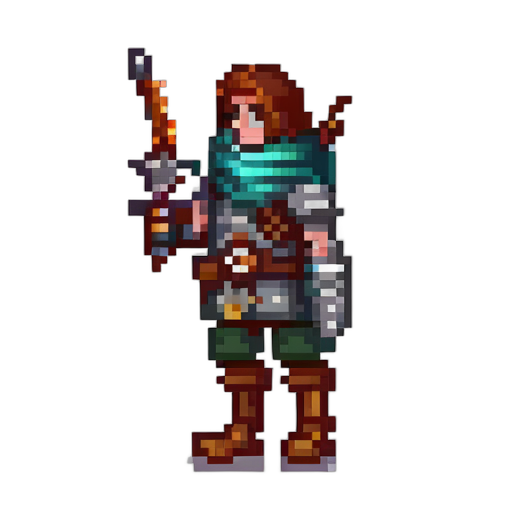
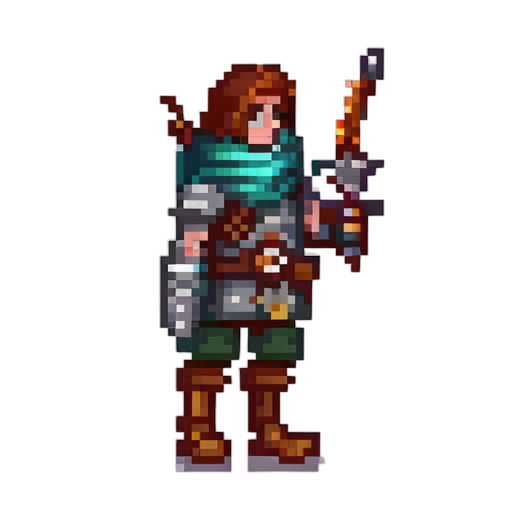
changed layout a bit

Changed region(s): [[0.25, 0.0938, 0.75, 0.9375]]

diff --git a/src/routes/game/quest/+page.svelte b/src/routes/game/quest/+page.svelte
@@ -11,7 +11,8 @@
 		getPlayerUnit,
 		getQuestById,
 		getQuestToLoad,
-		setBackground
+		setBackground,
+		setCrewOrder
 	} from '$lib/states/game-state.svelte';
 	import Sortable from 'sortablejs';
 	import { onDestroy, onMount } from 'svelte';
@@ -23,6 +24,9 @@
 	import QuestInfo from './quest-info.svelte';
 	import TotalBox from './total-box.svelte';
 	import UnitBody from '$lib/components/game/unit-body/unit-body.svelte';
+	import UnitSkillDragPanel from './unit-skill-drag-panel.svelte';
+	import Text from '$lib/components/ui/text/text.svelte';
+	import SkillInstanceCard from '$lib/components/game/skill-instance-card/skill-instance-card.svelte';
 
 	// Set Background
 	setBackground('chevrons');
@@ -57,13 +61,13 @@
 
 	// Life Cycle
 	onMount(async function () {
-		// sortableCrewPanel = Sortable.create(crewPanel, {
-		// 	group: {
-		// 		name: 'crewPanel',
-		// 		put: true
-		// 	},
-		// 	animation: 200
-		// });
+		sortableCrewPanel = Sortable.create(crewPanel, {
+			group: {
+				name: 'crewPanel',
+				put: true
+			},
+			animation: 200
+		});
 		window.addEventListener('shake-by-id', (event: Event) =>
 			handleShakeByIdEvent(event as CustomEvent)
 		);
@@ -85,50 +89,10 @@
 
 	// Buttons
 	async function startCombatUI() {
-		// setCrewOrder(sortableCrewPanel.toArray());
+		setCrewOrder(sortableCrewPanel.toArray());
 		await startCombat();
 	}
 </script>
-
-<!-- <div bind:this={crewPanel} class="box flex flex-[0.8] justify-between p-4">
-					{#each data.crew as unit}
-						<UnitSkillDragPanel unitId={unit.uuid} id={`skill-panel-${unit.uuid}`} name={unit.name}
-						></UnitSkillDragPanel>
-					{/each}
-				</div> -->
-
-<!-- <div class="flex h-full flex-col">
-	<div class="box flex flex-[0.6] flex-col">
-		<div class="box flex h-full flex-[0.8] items-center bg-yellow-800">
-			<div class="box unit-container">
-				{#each data.crew as unit, i}
-					<div id={unit.uuid} class="">
-						<UnitCard {unit} />
-					</div>
-				{/each}
-			</div>
-			<div class="box unit-container">
-				
-			</div>
-			<div class="box flex flex-[0.2] bg-blue-800"></div>
-		</div>
-	</div>
-	<div class="flex flex-[0.4]">
-		<div class="box flex flex-[0.8] gap-4 p-4">
-			{#each data.crew as unit}
-				<div class="box flex flex-col items-center gap-2 p-2">
-					<Text>{unit.name}</Text>
-					{#each unit.skillInstances as skill}
-						<SkillInstanceCard {unit} skillInstance={skill}></SkillInstanceCard>
-					{/each}
-				</div>
-			{/each}
-		</div>
-		<div class="box flex flex-[0.2] flex-col items-center justify-center gap-2">
-			<Button onclick={startCombatUI} size="lg">Go!</Button>
-		</div>
-	</div>
-</div> -->
 
 <NextStepDialog></NextStepDialog>
 <PlayerWonDialog></PlayerWonDialog>
@@ -151,7 +115,11 @@
 		<!-- Crew -->
 		<div class="grid w-full flex-[0.5] grid-cols-2 grid-rows-3 gap-4">
 			{#each data.crew as unit, i}
-				<div id={unit.uuid} class="flex flex-shrink-0 items-center">
+				<div
+					id={unit.uuid}
+					class="flex flex-shrink-0 items-center"
+					style="grid-column: {i % 2 === 0 ? 2 : 1}; grid-row: {Math.floor(i / 2) + 1};"
+				>
 					<UnitBody {unit} />
 				</div>
 			{/each}
@@ -159,8 +127,12 @@
 
 		<!-- Enemies -->
 		<div class="grid w-full flex-[0.5] grid-cols-2 grid-rows-3 gap-4">
-			{#each data.enemies as unit}
-				<div class="flex justify-center" id={unit.uuid}>
+			{#each data.enemies as unit, i}
+				<div
+					id={unit.uuid}
+					class="flex flex-shrink-0 items-center"
+					style="grid-column: {Math.floor(i / 3) + 1}; grid-row: {(i % 3) + 1};"
+				>
 					<UnitBody {unit} />
 				</div>
 			{/each}
@@ -169,9 +141,30 @@
 	<!-- Bottom -->
 	<div class="flex flex flex-[0.4]">
 		<!-- Skills -->
-		<div class="flex flex-[0.8] bg-green-800"></div>
+		<div class="flex flex-[0.8] flex-col">
+			<div bind:this={crewPanel} class="box flex flex-[0.8] justify-between p-4">
+				{#each data.crew as unit}
+					<UnitSkillDragPanel unitId={unit.uuid} id={`skill-panel-${unit.uuid}`} name={unit.name}
+					></UnitSkillDragPanel>
+				{/each}
+			</div>
+			<div class="box flex flex-[0.8] gap-4 p-4">
+				{#each data.crew as unit}
+					<div class="box flex flex-col items-center gap-2 p-2">
+						<Text>{unit.name}</Text>
+						{#each unit.skillInstances as skill}
+							<SkillInstanceCard {unit} skillInstance={skill}></SkillInstanceCard>
+						{/each}
+					</div>
+				{/each}
+			</div>
+		</div>
 		<!-- Buttons -->
-		<div class="flex flex-[0.2] flex-col bg-violet-800"></div>
+		<div class="flex flex-[0.2] flex-col items-center justify-center">
+			<div>
+				<Button onclick={startCombatUI} size="lg">Go!</Button>
+			</div>
+		</div>
 	</div>
 </div>
 

diff --git a/src/lib/components/game/unit-body/unit-body.svelte b/src/lib/components/game/unit-body/unit-body.svelte
@@ -1,4 +1,5 @@
 <script lang="ts">
+	import Text from '$lib/components/ui/text/text.svelte';
 	import type { Unit } from '$lib/schemas/unit';
 	import GameImage from '../image/game-image.svelte';
 
@@ -9,7 +10,11 @@
 	<div class="flex w-1/2 items-center justify-center">
 		<div class="flex h-full w-full justify-center">
 			<div class="flex flex-col items-center justify-center"></div>
-			<GameImage id={unit.image}></GameImage>
+			<div class="flex flex-col items-center justify-center text-center">
+				<div>
+					<GameImage id={unit.image}></GameImage>
+				</div>
+			</div>
 			<div class="flex flex-col items-center justify-center"></div>
 		</div>
 	</div>

diff --git a/src/lib/services/quest-generator.ts b/src/lib/services/quest-generator.ts
@@ -40,13 +40,11 @@ function createHuntingQuest(questData: QuestData) {
 		phase.maxHp = 0;
 		phase.winCondition = questData.winCondition;
 
-		for (let i = 0; i < 3; i++) {
-			questData.monsters.forEach((monster) => {
-				const monsterUnit = MONSTER_DICT[monster].unit;
-				phase.enemies.push(monsterUnit);
-				phase.maxHp += monsterUnit.baseAttributes.leadership;
-			});
-		}
+		questData.monsters.forEach((monster) => {
+			const monsterUnit = MONSTER_DICT[monster].unit;
+			phase.enemies.push(monsterUnit);
+			phase.maxHp += monsterUnit.baseAttributes.leadership;
+		});
 
 		quest.phases.push(phase);
 	}

diff --git a/src/routes/game/quest/unit-skill-drag-panel.svelte b/src/routes/game/quest/unit-skill-drag-panel.svelte
@@ -10,15 +10,13 @@
 	});
 </script>
 
-<div {id} data-id={unitId} class="panel flex flex-col items-center justify-center p-2">
+<div {id} data-id={unitId} class="box panel flex flex-col items-center justify-center p-2">
 	<Text>{name}</Text>
 	<Text>({state.action?.skillInstance?.type})</Text>
 </div>
 
 <style>
 	.panel {
-		/* background: hsl(var(--muted-foreground)); */
-		border: 1px solid rgba(0, 0, 0, 0.1);
 		padding: 8px;
 	}
 </style>

diff --git a/src/lib/services/factories/object-factory.ts b/src/lib/services/factories/object-factory.ts
@@ -13,6 +13,7 @@ export function createGameState() {
 	log('Creating new Game!');
 	// Player
 	const playerUnit = createUnit('Bob');
+	playerUnit.image = 'units/warrior.png';
 	setPlayerUnitId(playerUnit.uuid);
 	addUnitToWorld(playerUnit);
 
